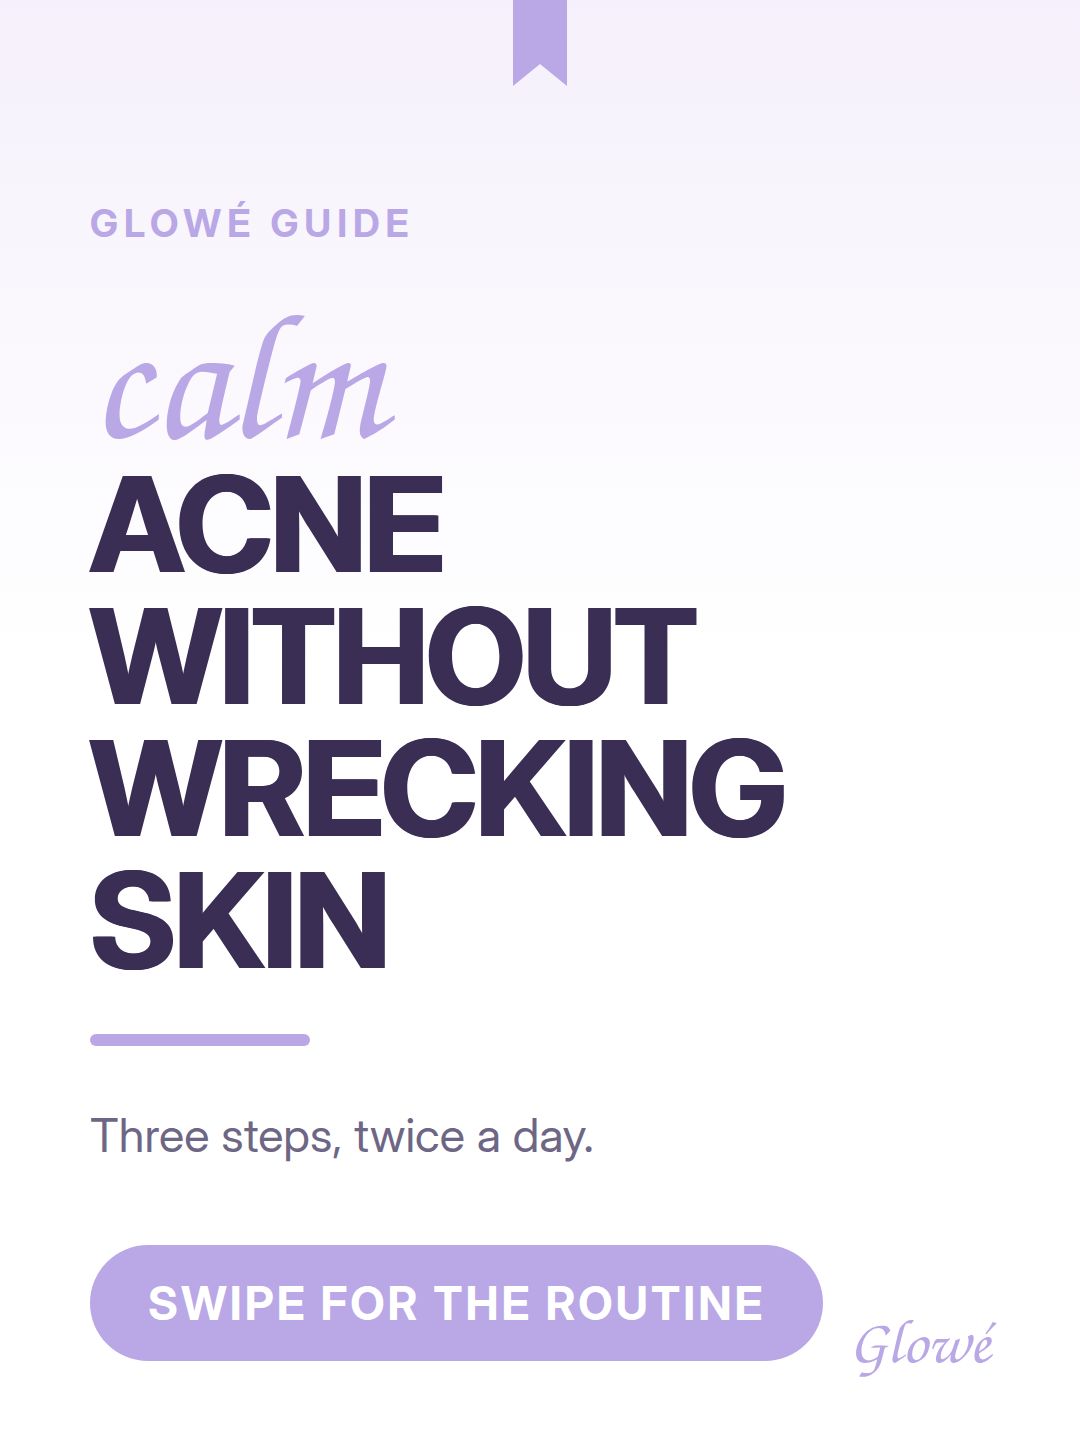
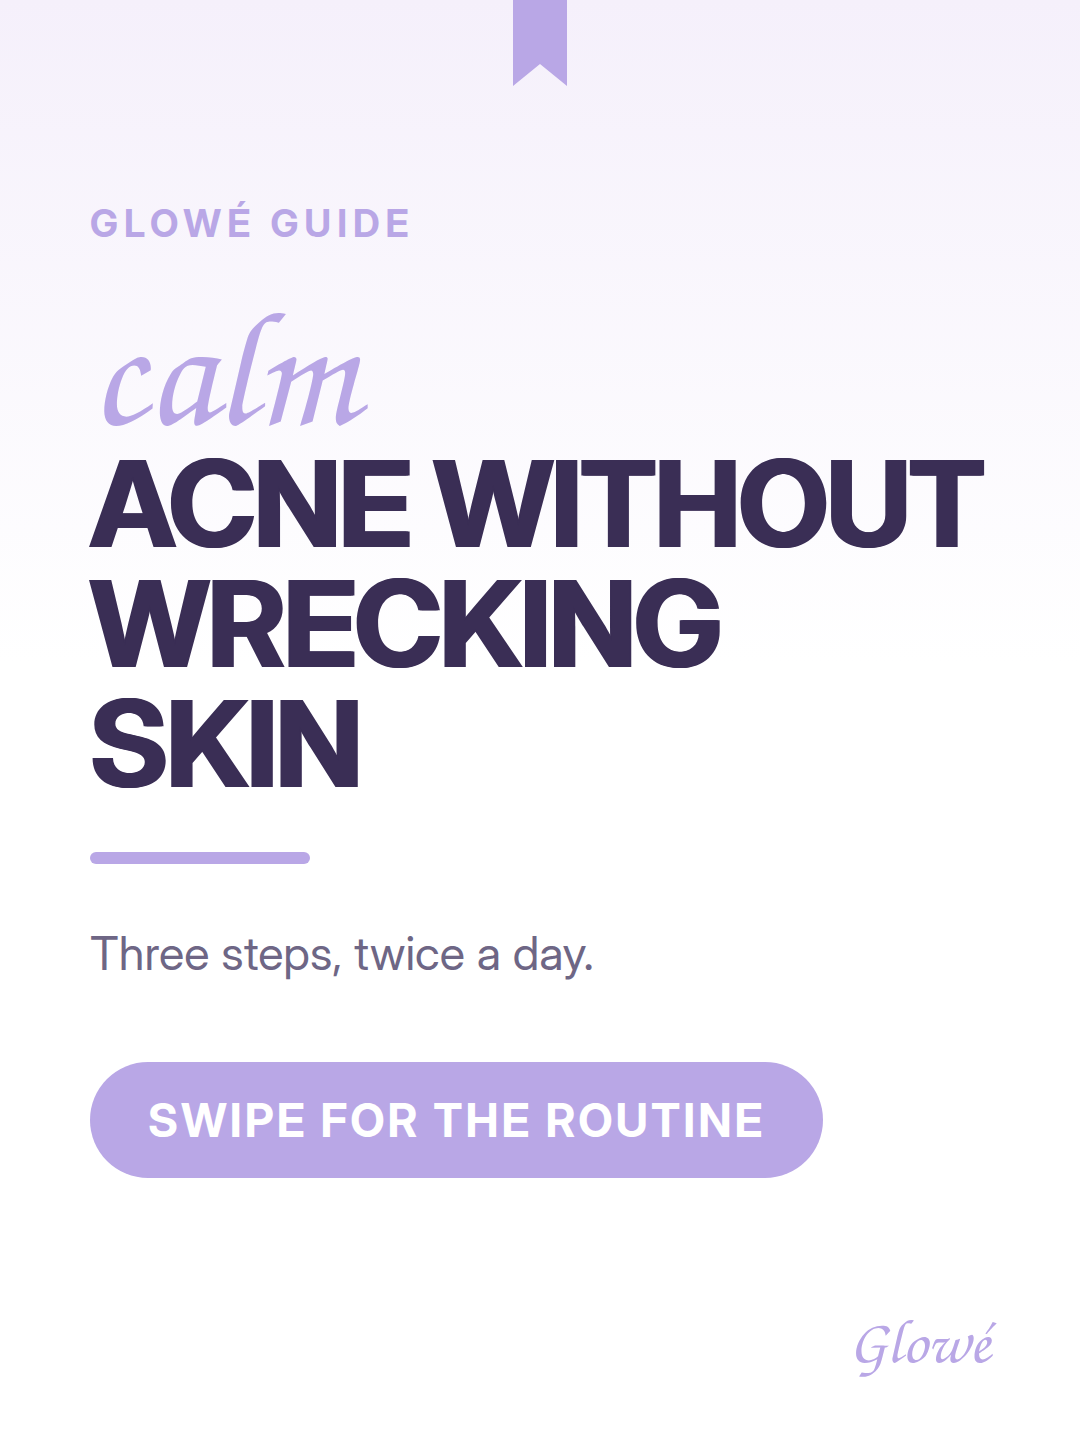
Scale headlines to fit so the CTA stops colliding with the wordmark
The headline sat at a fixed 132px no matter how long it was. "Calm acne
without wrecking skin" wrapped to four caps lines, pushed the whole column
down and slid the pill under the Glowé wordmark — visible once the acne
carousel was previewed on a phone. The pimple carousel hid it behind a
shorter headline.

fit_headline now measures the real Inter Display face with PIL, simulates
the browser's greedy wrap at the 900px column including letter-spacing, and
steps the size down until the block fits the vertical budget left over after
the eyebrow, bar and whatever sits below. Only the acne cover needed it; it
drops to 120px and wraps to three lines.

The size lands on the .headline div rather than an inner span, because
line-height:1.0 is unitless and resolves against the element that carries
the font-size — on a span the line boxes would have stayed 132px tall.

Verified by scanning all 15 renders for content intruding into the wordmark
band; none do.

Claude-Session: https://claude.ai/code/session_01EJfp6AtmKdfAEJn3yox12P

Changed region(s): [[0.0611, 0.2188, 0.9167, 0.6875], [0.0611, 0.7188, 0.7639, 0.9688]]

diff --git a/web/tiktok/render.py b/web/tiktok/render.py
@@ -1,7 +1,7 @@
 #!/usr/bin/env python3
 """Glowe Carousel Renderer v2 - bolder. JSON in, 5 PNG slides (1080x1440) out."""
 import glob, html, json, os, subprocess, sys
-from PIL import Image
+from PIL import Image, ImageFont
 
 # Poppins ist hier nicht installierbar (Google-Fonts-Host liegt hinter dem
 # Proxy-Deny). Inter Display ist der naechste verfuegbare geometrische Sans
@@ -95,29 +95,88 @@ def page(inner, ghost=None, high=False):
             f"<div class='{cls}'>{inner}</div>"
             f"<div class='logo'>Glow&eacute;</div></body></html>")
 
-def headline_html(text, script_word=None):
+SANS_BOLD = "/usr/share/fonts/opentype/inter/InterDisplay-Bold.otf"
+COL_W = 900          # Breite der .content-Spalte
+HEAD_MAX, HEAD_MIN = 132, 68
+SCRIPT_RATIO = 180 / 132   # .script haengt proportional an der Headline
+
+
+def _wrap(words, font, tracking):
+    """Greedy-Umbruch wie im Browser, inkl. letter-spacing."""
+    lines, cur = [], []
+    for w in words:
+        trial = cur + [w]
+        s = " ".join(trial)
+        if not cur or font.getlength(s) + tracking * len(s) <= COL_W:
+            cur = trial
+        else:
+            lines.append(cur)
+            cur = [w]
+    if cur:
+        lines.append(cur)
+    return lines
+
+
+def fit_headline(text, script_word, budget):
+    """Groesste Headline-Groesse, mit der der Block in `budget` Pixel passt.
+
+    Die Headline stand vorher fix auf 132px. Bei "Calm acne without wrecking
+    skin" ergibt das vier Grossbuchstaben-Zeilen, der Textblock lief unten
+    raus und der Pill schob sich ueber das Glowé-Logo. Statt die Texte zu
+    kuerzen wird die Groesse an der echten Schrift gemessen und passend
+    heruntergestuft."""
+    caps = [w for w in text.split()
+            if not (script_word and w.strip("?!.,").lower() == script_word.lower())]
+    size = HEAD_MAX
+    while size > HEAD_MIN:
+        font = ImageFont.truetype(SANS_BOLD, size)
+        h = len(_wrap([w.upper() for w in caps], font, -2.0)) * size   # line-height 1.0
+        if script_word:
+            h += size * SCRIPT_RATIO * 0.9 + 6                          # .script + margin
+        if h <= budget:
+            break
+        size -= 4
+    return size
+
+
+def headline_html(text, script_word=None, size=HEAD_MAX):
+    """Nur der Inhalt — die Groesse setzt build() auf das .headline-div selbst.
+    Sie darf nicht auf einen inneren span: line-height:1.0 ist unitless und
+    bezieht sich auf die Schriftgroesse des Elements, das es traegt. Auf dem
+    div haengend blieben die Zeilenboxen sonst auf 132px stehen, egal wie
+    klein der Text darin wird."""
     words, out = text.split(), []
     for w in words:
         if script_word and w.strip("?!.,").lower() == script_word.lower():
-            out.append(f"<span class='script'>{w.lower()}</span>")
+            out.append(f"<span class='script' style='font-size:"
+                       f"{round(size * SCRIPT_RATIO)}px'>{w.lower()}</span>")
         else:
             out.append(w.upper())
     return " ".join(out)
 
+# Vertikales Budget der Headline je Slide-Typ: Spaltenhoehe bis 40px ueber
+# das Logo, minus der Bloecke mit fester Hoehe (Eyebrow, Bar, Sub/Card/Pill).
+BUDGET_COVER, BUDGET_STEP, BUDGET_CTA = 620, 470, 470
+
+
 def build(slide):
     n = slide["n"]
     if n == 1:
+        size = fit_headline(slide["headline"], slide.get("script_word"), BUDGET_COVER)
         inner = (f"<div class='eyebrow'>{slide['eyebrow']}</div>"
-                 f"<div class='headline'>{headline_html(slide['headline'], slide.get('script_word'))}</div>"
+                 f"<div class='headline' style='font-size:{size}px'>"
+                 f"{headline_html(slide['headline'], slide.get('script_word'), size)}</div>"
                  f"<div class='bar'></div>"
                  f"<div class='sub'>{slide['subline']}</div>"
                  f"<div class='pill'>SWIPE FOR THE ROUTINE</div>")
         return page(inner, high=True)
     if n in (2, 3, 4):
+        size = fit_headline(slide["headline"], None, BUDGET_STEP)
         bullets = "".join(f"<div class='bullet'><span class='dot'></span>{b}</div>"
                           for b in slide["bullets"])
         inner = (f"<div class='eyebrow'>{slide['eyebrow']}</div>"
-                 f"<div class='headline'>{headline_html(slide['headline'])}</div>"
+                 f"<div class='headline' style='font-size:{size}px'>"
+                 f"{headline_html(slide['headline'], None, size)}</div>"
                  f"<div class='bar'></div>"
                  f"<div class='card'>{bullets}</div>")
         return page(inner, ghost=slide["ghost_number"])
@@ -128,8 +187,10 @@ def build(slide):
     pill_cls = "pill long" if len(pill_raw) > 20 else "pill"
     pill = html.escape(pill_raw)
     after = slide.get("after_pill", "and I'll send it over.")
+    size = fit_headline(slide["headline"], slide.get("script_word"), BUDGET_CTA)
     inner = (f"<div class='eyebrow'>{slide['eyebrow']}</div>"
-             f"<div class='headline'>{headline_html(slide['headline'], slide.get('script_word'))}</div>"
+             f"<div class='headline' style='font-size:{size}px'>"
+             f"{headline_html(slide['headline'], slide.get('script_word'), size)}</div>"
              f"<div class='bar'></div>"
              f"<div class='{pill_cls}'>{pill}</div>"
              f"<div class='after-pill'>{after}</div>"
